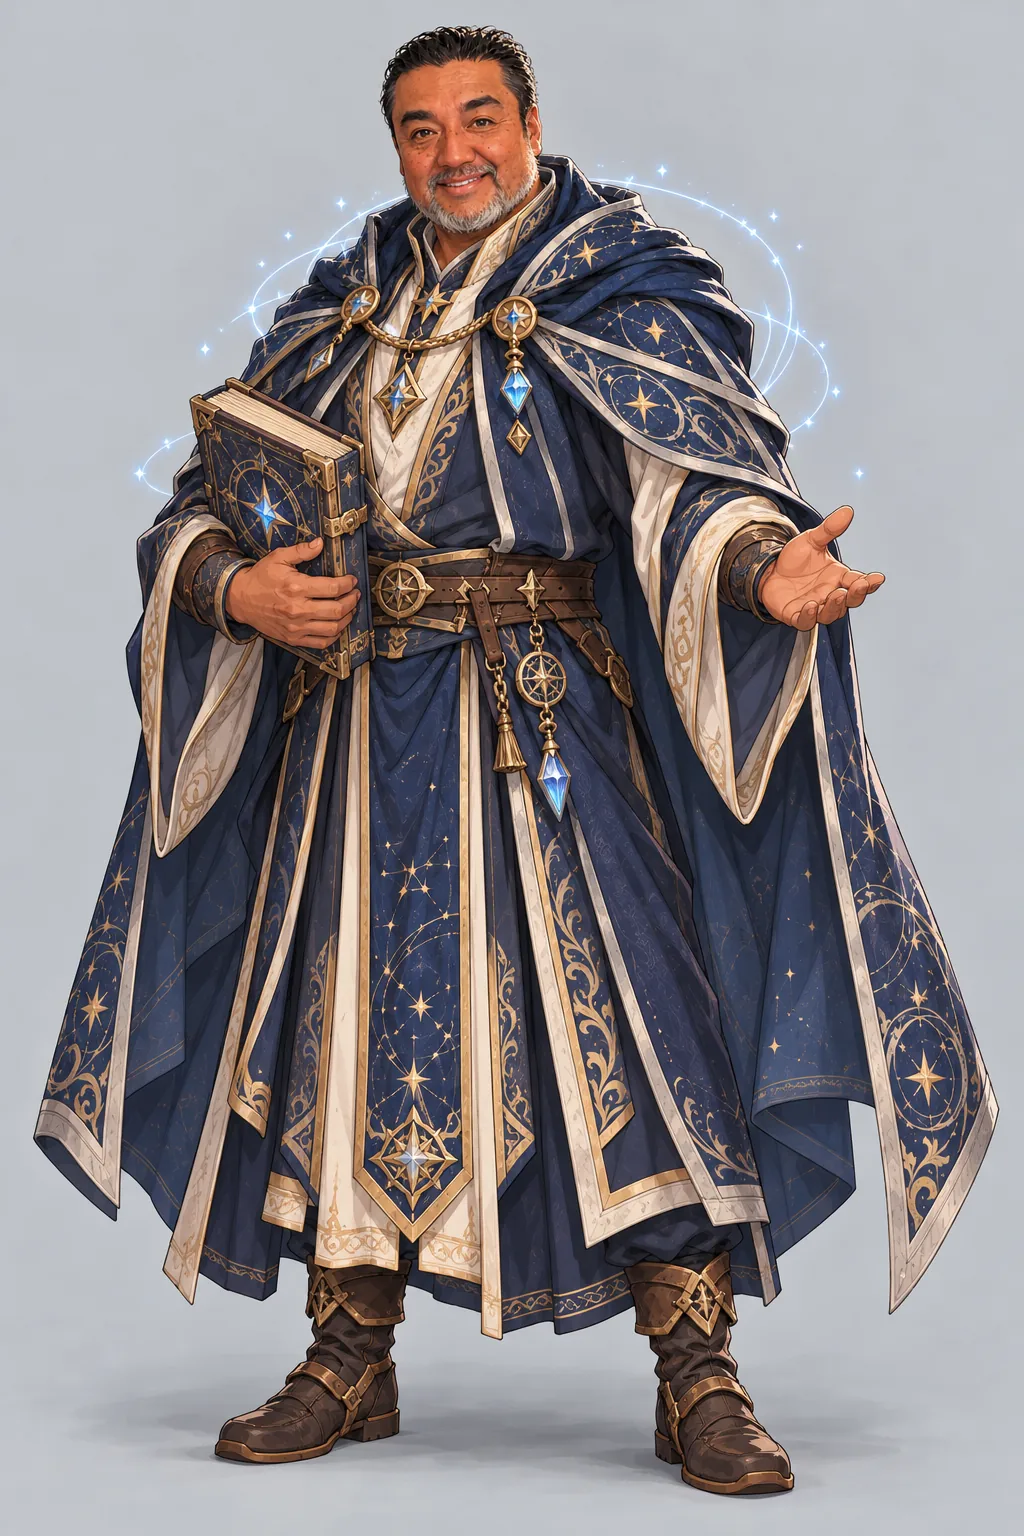
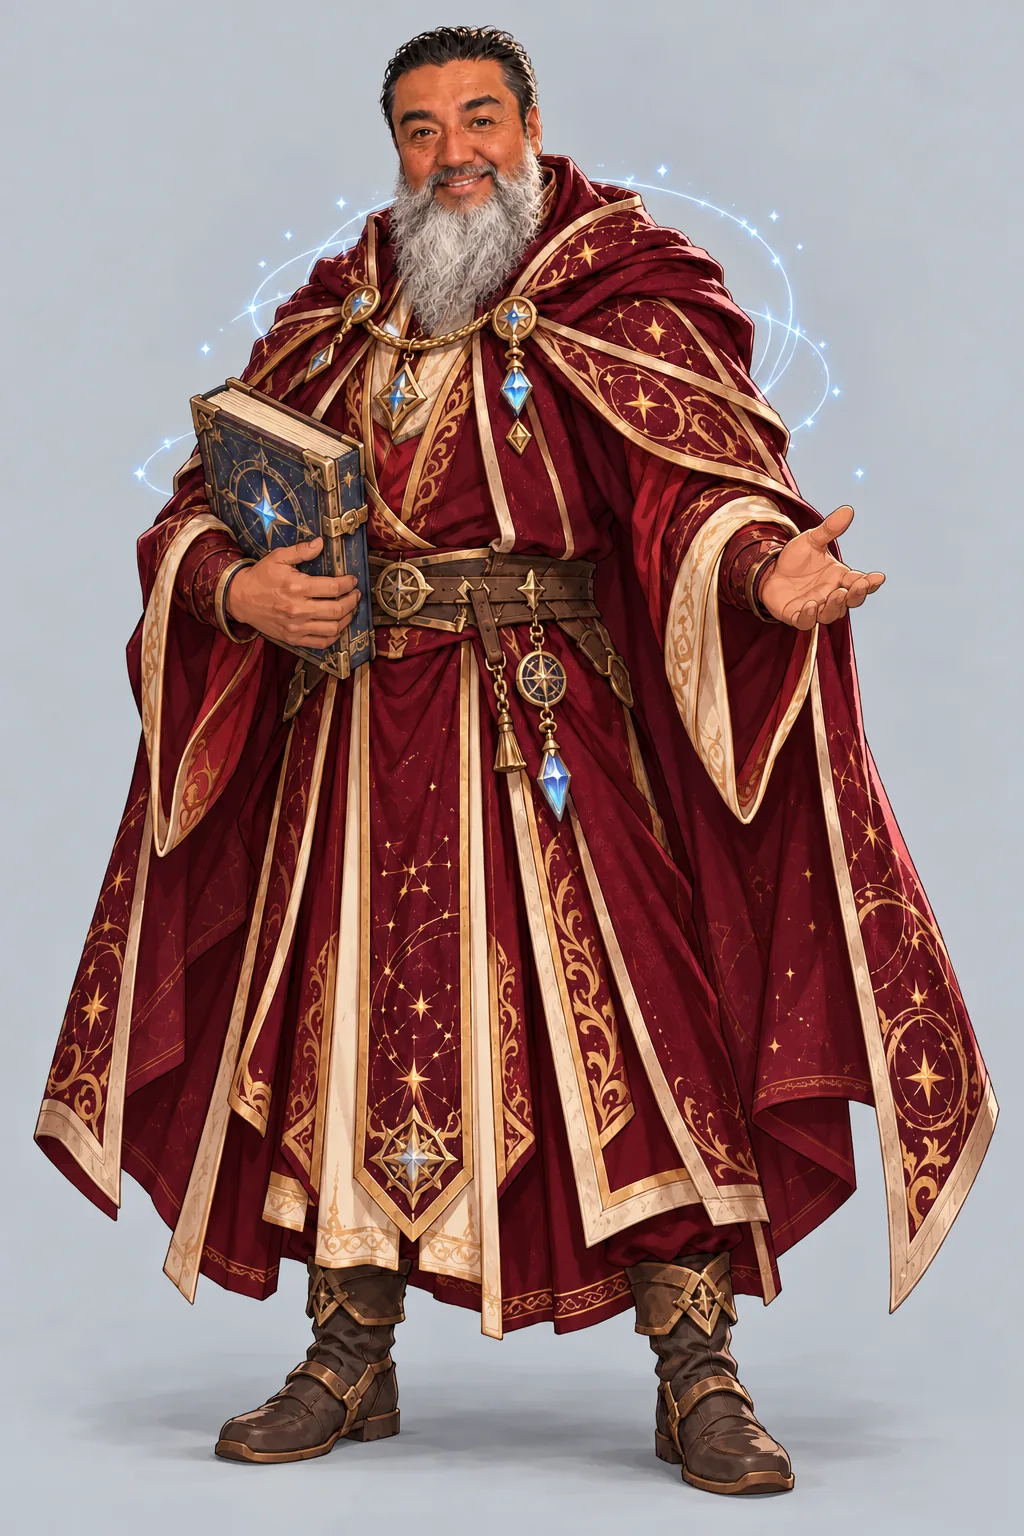
VT2: Senku, Númen de Vaisork; Númenes de cada jugador en el DM; Vaisork con barba larga y ropa roja
Programado y dibujado por Codex; revisado por Claude.

Claude-Session: https://claude.ai/code/session_014TMP2KAbFpwRbP3qr86b5q

diff --git a/vintage-telnet-2/client/app.js b/vintage-telnet-2/client/app.js
@@ -253,7 +253,7 @@ const numenMoodDescriptions={
  'con hambre':'Con hambre · Te mira esperando un Bocado de Númen.',
  'decaído':'Decaído · Lleva muchas horas sin comer o descansar, pero sigue a tu lado.'
 };
-let numenAnim='',numenReactionText='',numenArtMissing=new Set();
+let numenAnim='',numenReactionText='';
 async function triggerNumenCare(action,animKind){
  if(busy||pendingRetry)return;
  numenAnim=animKind;render();
@@ -274,7 +274,7 @@ function numenCard(numen,isActive,availableActions){
  const moodTone=mood==='contento'?'care-good':mood==='con hambre'?'care-hungry':'care-need';
  const cardEl=el('article',{class:`tile numen-card${isActive?' numen-active':''}`},
   el('div',{class:'numen-heading'},
-   el('span',{class:'numen-emblem','aria-hidden':'true'},controlIcon('paw')),
+   numenArt(numen,{class:'species-thumbnail'}),
    el('div',{class:'numen-title-group'},
     el('h3',{class:'numen-name'},numen.name),
     el('p',{class:'muted numen-species'},numen.species_name||'Compañero Númen')
@@ -298,6 +298,15 @@ function numenCard(numen,isActive,availableActions){
  }
  if(namingNumen===`nombrar_numen:${numen.id}`)cardEl.append(numenNameForm(renameAction,numen.name));
  return cardEl;
+}
+function numenArt(numen,attrs={}){
+ const base=`/client/art/numenes/numen-${numen.model||'a'}-v1.webp`;
+ const src=numen.variant?base.replace('-v1.webp',`-${numen.variant}-v1.webp`):base;
+ return el('img',{...attrs,src,alt:`Ilustración de ${numen.name}`,decoding:'async',onerror:event=>{
+  const img=event.currentTarget;
+  if(img.getAttribute('src')!==base){img.src=base;return;}
+  img.remove();
+ }});
 }
 function numenSection(c){
  const numenes=c.numenes||state.numenes||{active:null,bonded:[]};
@@ -330,20 +339,12 @@ function numenView(){
  }
  const model=active.model||'a',mood=active.mood||'contento',moodKey=mood==='con hambre'?'hambre':mood==='decaído'?'decaido':'contento';
  const moodTone=mood==='contento'?'care-good':mood==='con hambre'?'care-hungry':'care-need';
- const artSrc=`/art/numenes/numen-${model}-v1.webp`;
  const fallback=el('div',{class:'numen-art-fallback'},
   el('span',{class:'numen-silhouette','aria-hidden':'true'},numenSilhouettes[model]||'🐾'),
   el('strong',{},active.name),
   el('small',{class:'muted'},active.species_name||'Compañero Númen')
  );
- const artImg=!numenArtMissing.has(model)?el('img',{
-  class:'numen-art-img',
-  src:artSrc,
-  alt:`Ilustración de ${active.name}`,
-  decoding:'async',
-  onload:event=>event.currentTarget.parentElement?.classList.add('has-art'),
-  onerror:event=>{numenArtMissing.add(model);event.currentTarget.remove();}
- }):null;
+ const artImg=numenArt(active,{class:'numen-art-img',onload:event=>event.currentTarget.parentElement?.classList.add('has-art')});
  const animBadge=numenAnim?el('span',{class:'numen-response-badge',role:'status'},numenAnim==='heart'?'♥ Ronroneo alegre':numenAnim==='jump'?'✦ ¡Salto de alegría!':'☾ Descanso tranquilo'):null;
  const artFrame=el('div',{class:`numen-art-frame numen-mood-${moodKey}${numenAnim?` numen-anim-${numenAnim}`:''}`,'data-mood':mood},fallback,artImg,animBadge);
  const bocados=list(state.inventory).filter(item=>item.id==='bocado_numen'||item.kind==='numen_food').reduce((sum,item)=>sum+(Number(item.quantity)||1),0);
@@ -693,6 +694,14 @@ function masterActivity(character){
   subtitle(valid?`Desde tu revisión: +${moves-saved.moves} movimientos · +${places-saved.places} lugares`:'Sin revisión anterior.'),
   button('Marcar como revisado',()=>{try{localStorage.setItem(key,JSON.stringify({moves,places}));render();}catch(_){message('No se pudo guardar la revisión en este navegador.',true);}},{disabled:busy,'aria-label':`Marcar actividad de ${character.name} como revisada`}));
 }
+function masterNumenes(character){
+ if(character.status!=='approved')return null;
+ const numenes=list(character.numenes);
+ return el('section',{'aria-label':`Númenes de ${character.name}`},el('h3',{},'Númenes'),
+  ...numenes.map(n=>el('div',{class:'numen-heading'},numenArt(n,{class:'species-thumbnail',loading:'lazy'}),
+   el('div',{},el('strong',{},n.name),subtitle(`${n.species_name||'Compañero Númen'} · ${n.active?'En viaje (activo)':'En el refugio'} · ${n.mood}`)))),
+  numenes.length?null:subtitle('Sin Númenes'));
+}
 function masterVaisorkSection(){
  const v=master?.vaisork;if(!v)return null;
  const portrait=v.portrait||'/client/art/players/vaisork-anime-v1.webp',fullBody=v.full_body||'/client/art/players/vaisork-anime-cuerpo-completo-v1.webp';
@@ -724,13 +733,13 @@ function renderMaster(){const back=button('Volver a la aventura',async()=>{view=
   const character=selected,isPending=list(master.pending).some(c=>c.id===character.id);
   main.replaceChildren(card(button('Volver a jugadores',()=>{masterSelected=null;render();},{disabled:busy}),title('Gestionar jugador',character.name),masterPortraitPreview(character),subtitle(masterCharacterSummary(character)),subtitle(`Cuenta: ${masterAccountName(character)} · ${character.blocked?'Acceso bloqueado':isPending?'Pendiente de aprobación':'Aprobado'}`),
    isPending?button('Aprobar personaje',async()=>{if(busy)return;busy=true;try{await api('/api/master/approve',{character_id:character.id,request_id:requestId()});await loadMaster();message('Personaje aprobado. Ya puede comenzar su recorrido.');}catch(error){message(error.message,true);}finally{busy=false;render();}},{class:'primary',disabled:busy}):button(character.tester_enabled?'Deshabilitar pruebas':'Habilitar pruebas',async()=>{if(busy)return;busy=true;try{await api('/api/master/tester',{character_id:character.id,enabled:!character.tester_enabled});await loadMaster();}catch(error){message(error.message,true);}finally{busy=false;render();}},{disabled:busy}),
-   masterActivity(character),isPending?null:masterManagement(character),masterPasswordForm(character),masterAccessButton(character),logout,back));return;
+   masterActivity(character),masterNumenes(character),isPending?null:masterManagement(character),masterPasswordForm(character),masterAccessButton(character),logout,back));return;
  }
  const search=el('input',{type:'search',value:masterSearch,placeholder:'Nombre del personaje o cuenta','aria-label':'Buscar jugadores',oninput:event=>{masterSearch=event.currentTarget.value;masterPage=0;renderMaster();const input=main.querySelector('input[type=search]');input?.focus({preventScroll:true});}});
  const filter=el('select',{'aria-label':'Filtrar jugadores',value:masterFilter,onchange:event=>{masterFilter=event.currentTarget.value;masterPage=0;renderMaster();}},...Object.entries({all:'Todos',pending:'Pendientes',approved:'Aprobados',blocked:'Expulsados'}).map(([value,label])=>el('option',{value,selected:value===masterFilter},label)));
  const query=masterSearch.trim().toLocaleLowerCase('es'),filtered=characters.filter(c=>`${c.name} ${masterAccountName(c)}`.toLocaleLowerCase('es').includes(query)&&(masterFilter==='all'||masterFilter==='blocked'&&c.blocked||masterFilter==='pending'&&list(master.pending).some(p=>p.id===c.id)||masterFilter==='approved'&&list(master.approved).some(p=>p.id===c.id)));
  const pageCount=Math.max(1,Math.ceil(filtered.length/12));masterPage=Math.min(masterPage,pageCount-1);
- main.replaceChildren(card(title('Dirección del mundo','Jugadores'),subtitle(`${list(master.pending).length} pendientes · ${list(master.approved).length} aprobados`),subtitle('La última revisión se guarda en este navegador. Los totales pertenecen al personaje.'),masterVaisorkSection(),refreshRoster,el('label',{class:'field'},'Buscar jugadores',search),el('label',{class:'field'},'Mostrar',filter),...filtered.slice(masterPage*12,masterPage*12+12).map(c=>el('article',{class:'tile master-player-row'},el('h3',{},c.name),subtitle(masterCharacterSummary(c)),masterActivity(c),subtitle(`Cuenta: ${masterAccountName(c)} · ${c.blocked?'Expulsado':list(master.pending).some(p=>p.id===c.id)?'Pendiente':'Aprobado'}`),button('Ver jugador',()=>{masterSelected=c.id;render();},{'aria-label':`Ver jugador ${c.name}`,disabled:busy}))),filtered.length?null:subtitle('No hay jugadores que coincidan.'),el('div',{class:'master-pagination'},button('Anterior',()=>{masterPage--;renderMaster();},{disabled:masterPage===0||busy}),el('span',{},`Página ${masterPage+1} de ${pageCount}`),button('Siguiente',()=>{masterPage++;renderMaster();},{disabled:masterPage>=pageCount-1||busy})),logout,back));
+ main.replaceChildren(card(title('Dirección del mundo','Jugadores'),subtitle(`${list(master.pending).length} pendientes · ${list(master.approved).length} aprobados`),subtitle('La última revisión se guarda en este navegador. Los totales pertenecen al personaje.'),masterVaisorkSection(),refreshRoster,el('label',{class:'field'},'Buscar jugadores',search),el('label',{class:'field'},'Mostrar',filter),...filtered.slice(masterPage*12,masterPage*12+12).map(c=>el('article',{class:'tile master-player-row'},el('h3',{},c.name),subtitle(masterCharacterSummary(c)),masterActivity(c),masterNumenes(c),subtitle(`Cuenta: ${masterAccountName(c)} · ${c.blocked?'Expulsado':list(master.pending).some(p=>p.id===c.id)?'Pendiente':'Aprobado'}`),button('Ver jugador',()=>{masterSelected=c.id;render();},{'aria-label':`Ver jugador ${c.name}`,disabled:busy}))),filtered.length?null:subtitle('No hay jugadores que coincidan.'),el('div',{class:'master-pagination'},button('Anterior',()=>{masterPage--;renderMaster();},{disabled:masterPage===0||busy}),el('span',{},`Página ${masterPage+1} de ${pageCount}`),button('Siguiente',()=>{masterPage++;renderMaster();},{disabled:masterPage>=pageCount-1||busy})),logout,back));
 }
 document.getElementById('account-logout').addEventListener('click',async()=>{const done=await mutate('/api/account/logout',{});if(done){journal.reset();resetTerminal();confirmedRequests.clear();view='adventure';authMode='login';pendingRetry=null;render();}});
 for(const [key,className] of [['font','large-reading'],['small-font','small-reading'],['contrast','high-contrast'],['motion','reduced-motion']])try{document.documentElement.classList.toggle(className,localStorage.getItem('vt-new:'+key)==='on');}catch(_){}

diff --git a/vintage-telnet-2/tests/test_vaisork.py b/vintage-telnet-2/tests/test_vaisork.py
@@ -136,6 +136,73 @@ class VaisorkTests(unittest.TestCase):
             count = db.execute("SELECT COUNT(*) FROM characters WHERE name='Vaisork'").fetchone()[0]
             self.assertEqual(count, 1)
 
+    def test_senku_login_is_idempotent_and_preserves_other_numenes(self):
+        credentials = {'username': 'vaisork', 'password': 'director-pass-123'}
+        first = self.post(self.client, '/api/account/login', credentials)
+        senku = first.json['character']['numenes']['bonded'][0]
+        self.assertEqual((senku['name'], senku['model'], senku['variant']), ('Senku', 'b', 'senku'))
+        self.assertEqual(senku['trust'], 3)
+        self.assertEqual(senku['mood'], 'contento')
+        self.assertEqual(first.json['character']['numenes']['active'], senku['id'])
+        with self.store.transaction() as db:
+            row = db.execute("SELECT * FROM characters WHERE name='Vaisork'").fetchone()
+            state = json.loads(row['state'])
+            other = mechanics.bond_numen(state, 'a', 'Otro', 1)
+            mechanics.activate_numen(state, other['id'])
+            state['numenes']['bonded'][0]['care']['last_fed'] = 1
+            db.execute('UPDATE characters SET state=? WHERE id=?', (json.dumps(state), row['id']))
+        second = self.post(self.client, '/api/account/login', credentials).json['character']['numenes']
+        self.assertEqual(len(second['bonded']), 2)
+        self.assertEqual(second['active'], senku['id'])
+        self.assertEqual(second['bonded'][0]['care']['last_fed'], 123456)
+        self.assertEqual(second['bonded'][1]['name'], 'Otro')
+
+    def test_senku_resync_preserves_a_full_roster(self):
+        credentials = {'username': 'vaisork', 'password': 'director-pass-123'}
+        self.post(self.client, '/api/account/login', credentials)
+        with self.store.transaction() as db:
+            row = db.execute("SELECT * FROM characters WHERE name='Vaisork'").fetchone()
+            state = json.loads(row['state'])
+            state['numenes'] = {'active': None, 'bonded': [], 'encounters': {}}
+            for model in ('a', 'c', 'd'):
+                mechanics.bond_numen(state, model, 'Otro ' + model, 1)
+            db.execute('UPDATE characters SET state=? WHERE id=?', (json.dumps(state), row['id']))
+        result = self.post(self.client, '/api/account/login', credentials).json['character']['numenes']
+        self.assertEqual([n['model'] for n in result['bonded']], ['a', 'c', 'd', 'b'])
+        self.assertEqual(result['active'], result['bonded'][-1]['id'])
+
+    def test_master_numenes_are_private_and_mood_is_current(self):
+        player = self.app.test_client()
+        self.post(player, '/api/account/register', {'username': 'normal', 'password': 'valid-pass-123'})
+        self.post(player, '/api/character/create', {'name': 'Normal', 'species': 'humano', 'class_id': 'juramentado', 'gender': 'masculino'})
+        with self.store.transaction() as db:
+            row = db.execute("SELECT * FROM characters WHERE name='Normal'").fetchone()
+            state = json.loads(row['state'])
+            companion = mechanics.bond_numen(state, 'b', 'Nube', 123456 - 10 * 3600)
+            companion['variant'] = 'senku'
+            db.execute("UPDATE characters SET state=?,status='approved' WHERE id=?", (json.dumps(state), row['id']))
+            cid = row['id']
+        self.post(self.client, '/api/account/login', {'username': 'vaisork', 'password': 'director-pass-123'})
+        master = self.client.get('/api/master/state').json
+        character = next(c for c in master['approved'] if c['id'] == cid)
+        self.assertEqual(character['numenes'], [{
+            'id': companion['id'], 'model': 'b', 'variant': 'senku', 'name': 'Nube',
+            'species_name': mechanics.NUMENES_MODELS['b']['species_name'],
+            'active': True, 'mood': 'con hambre'}])
+        self.assertEqual(player.get('/api/master/state').status_code, 401)
+        public_state = player.get('/api/state').json
+        self.assertNotIn('approved', public_state)
+        self.assertNotIn('Senku', json.dumps(public_state))
+        self.assertNotIn('Vaisork', json.dumps(public_state))
+
+    def test_normal_player_has_no_senku(self):
+        self.post(self.client, '/api/account/register', {'username': 'normal', 'password': 'valid-pass-123'})
+        self.post(self.client, '/api/character/create', {'name': 'Normal', 'species': 'humano', 'class_id': 'juramentado', 'gender': 'masculino'})
+        with self.store.transaction() as db:
+            row = db.execute("SELECT * FROM characters WHERE name='Normal'").fetchone()
+            self.assertIsNotNone(row)
+            self.assertEqual(json.loads(row['state']).get('numenes', {}).get('bonded', []), [])
+
     def test_vaisork_cannot_be_defeated_in_combat(self):
         # Login as Vaisork
         r = self.post(self.client, '/api/account/login', {'username': 'vaisork', 'password': 'director-pass-123'})

diff --git a/vintage-telnet-2/server/app.py b/vintage-telnet-2/server/app.py
@@ -197,6 +197,15 @@ def create_app(config=None):
                         cs['attributes']={a:100 for a in mechanics.ATTRIBUTES}
                         cs['hp']=mechanics.hp_max(cs)
                         db.execute('UPDATE characters SET state=? WHERE id=?',(json.dumps(cs,ensure_ascii=False),char_id))
+                cs=initial if not char_row else cs
+                now=clock()
+                senku=next((n for n in cs.get('numenes',{}).get('bonded',[]) if n.get('model')=='b'),None)
+                if senku is None:senku=mechanics.bond_numen(cs,'b','Senku',now)
+                senku.update(name='Senku',variant='senku',trust=3,trust_stage=mechanics.TRUST_STAGES[3])
+                senku.setdefault('care',{}).update(last_fed=now,last_rested=now)
+                mechanics.activate_numen(cs,senku['id'])
+                mechanics.sync_numenes(cs,now)
+                db.execute('UPDATE characters SET state=? WHERE id=?',(json.dumps(cs,ensure_ascii=False),char_id))
                 session.clear();session['account_id']=acc_id;session['character_id']=char_id
                 session['account_version']=access['session_version'] if access else 0
                 session['master']=True
@@ -334,7 +343,12 @@ def create_app(config=None):
             rows=[dict(r) for r in db.execute("SELECT c.id,c.name,c.species,c.class_id,c.status,json_extract(c.state,'$.tester_enabled') AS tester_enabled,COALESCE(json_extract(c.state,'$.level'),1) AS level,json_extract(c.state,'$.portrait') AS portrait,a.username AS account,COALESCE(x.blocked,0) AS blocked FROM characters c JOIN accounts a ON a.id=c.account_id LEFT JOIN account_access x ON x.account_id=a.id")]
             movement_counts=dict(db.execute("SELECT character_id,COUNT(*) FROM requests WHERE json_extract(intent,'$.id')='mover' GROUP BY character_id"))
             places=dict(db.execute("SELECT id,COALESCE(json_array_length(state,'$.visited'),0) FROM characters"))
+            numenes_by_id={r['id']:json.loads(r['state']).get('numenes',{}) for r in db.execute('SELECT id,state FROM characters')}
+            now=clock()
             for row in rows:
+                if row['status']=='approved':
+                    numenes=numenes_by_id[row['id']]
+                    row['numenes']=[{key:n.get(key) for key in ('id','model','variant','name','species_name')} | {'active':n.get('id')==numenes.get('active'),'mood':mechanics.numen_mood(n,now)} for n in numenes.get('bonded',[])]
                 row['movements']=movement_counts.get(row['id'],0)
                 row['places_visited']=places.get(row['id'],0)
             ficha=dict(engine().content.vaisork_ficha)

diff --git a/vintage-telnet-2/tests/test_numenes.py b/vintage-telnet-2/tests/test_numenes.py
@@ -287,8 +287,10 @@ class NumenesPilotTests(unittest.TestCase):
         app_js = (ROOT / 'client' / 'app.js').read_text(encoding='utf-8')
         style_css = (ROOT / 'client' / 'style.css').read_text(encoding='utf-8')
         self.assertIn('function numenView()', app_js)
-        self.assertIn('/art/numenes/numen-${model}-v1.webp', app_js)
-        self.assertIn('numenArtMissing.add(model);event.currentTarget.remove()', app_js)
+        self.assertIn('/client/art/numenes/numen-${numen.model', app_js)
+        self.assertIn('const artImg=numenArt(active,', app_js)
+        self.assertIn('img.src=base;return;', app_js)
+        self.assertIn('img.remove();', app_js)
         self.assertIn('numen-art-fallback', app_js)
         self.assertIn('Dar Bocado de Númen', app_js)
         self.assertIn('Descansar juntos', app_js)

diff --git a/vintage-telnet-2/server/mechanics.py b/vintage-telnet-2/server/mechanics.py
@@ -441,7 +441,8 @@ def rename_numen(state, numen_id, name):
 def bond_numen(state, model_id, name, now):
  numenes = state.setdefault('numenes', {'active': None, 'bonded': [], 'encounters': {}})
  bonded = numenes.setdefault('bonded', [])
- if len(bonded) >= 3:
+ # El compañero del DM no desplaza vínculos previos de un roster completo.
+ if len(bonded) >= 3 and not (is_vaisork(state) and model_id == 'b' and name == 'Senku'):
   raise ValueError('Límite alcanzado: máximo tres Númenes vinculados.')
  clean_name = validate_numen_name(name)
  if model_id not in NUMENES_MODELS:

diff --git a/vintage-telnet-2/CONTENT_CONTRACT.md b/vintage-telnet-2/CONTENT_CONTRACT.md
@@ -170,3 +170,15 @@ Cada participante cobra una vez su arma de clase, joyas y escama o colmillo.
 Las pruebas recorren todas las salas y cinco combates con arcanos de nivel 3
 (humano, felaryn y pareja), usando tiradas favorables deterministas: demuestran
 accesibilidad y resolución, sin estimar probabilidad de victoria ni certificar producción.
+
+## Variantes de Númen y compañero del DM — 2026-10-16
+
+Un vínculo puede guardar `variant`; su arte usa
+`client/art/numenes/numen-<modelo>-<variant>-v1.webp` con caída al arte normal
+si falla la carga. Sin variante conserva el archivo del modelo.
+El login de Vaisork asegura Senku (modelo b, variante senku), confianza 3,
+alimentado, descansado y activo. Reutiliza su vínculo b y conserva los demás;
+si el roster ya está completo, este compañero del DM puede exceder el límite.
+La ficha y tarjeta del DM muestran los vínculos aprobados en lectura: nombre,
+especie, activo y ánimo calculado con el reloj del servidor. El resumen de otros
+personajes se sirve únicamente en `/api/master/state`, con sesión master.
